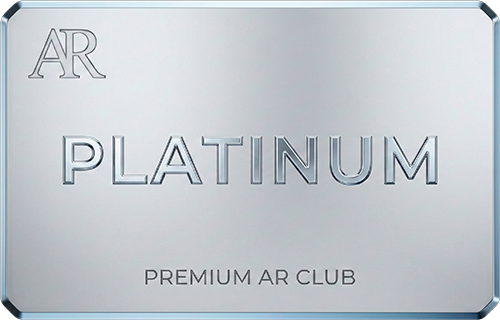
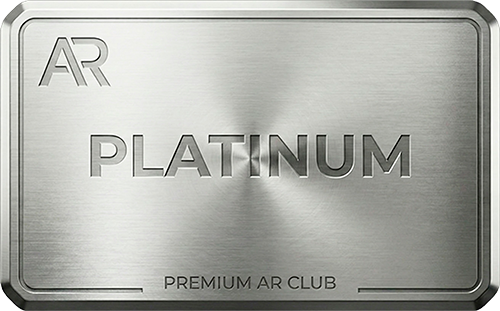
feat: отправка картинки карты при подтверждении оплаты
- Добавлена sendTelegramPhoto функция в оба webhook
- При оплате отправляется фото карты + текст + кнопки
- Fallback на текст если фото не отправится
- lava-premium-webhook.js и 0xprocessing-webhook.js обновлены

🤖 Generated with [Claude Code](https://claude.com/claude-code)

diff --git a/src/pages/PricingPage.tsx b/src/pages/PricingPage.tsx
@@ -49,21 +49,21 @@ const tariffs: Tariff[] = [
     discount: null, // No discount badge for manual old price handling
     badge: null,
     cardImage: '/cards/classic.png',
-    auroraColors: ['#6b7280', '#4b5563'], // Gray
+    auroraColors: ['#FFFFFF', '#E5E5E5'], // White
     auroraOpacity: 0.3,
     auroraBlur: 15,
     auroraSpeed: 10,
     isFeatured: false,
     baseFeatures: [
-      'Полный доступ к публикациям канала',
-      'Доступ к Premium таблице',
-      'Бот-навигатор по материалам',
-      'Общение в тематических чатах',
-      'Поддержка от команды AR'
+      'Закрытый канал с аналитикой',
+      'Таблица сигналов',
+      'Бот-навигатор',
+      'Общий чат клуба',
+      'Поддержка 24/7'
     ],
     bonuses: [],
     buttonStyle: 'outline',
-    buttonColor: '#9ca3af' // gray-400
+    buttonColor: '#FFFFFF' // white
   },
   {
     id: 'gold',
@@ -75,22 +75,21 @@ const tariffs: Tariff[] = [
     discount: null,
     badge: null,
     cardImage: '/cards/gold.png',
-    auroraColors: ['#FFD700', '#FFA500'], // Gold
-    auroraOpacity: 0.5,
-    auroraBlur: 20,
+    auroraColors: ['#F5A623', '#E69500'], // Rich gold
+    auroraOpacity: 0.6,
+    auroraBlur: 18,
     auroraSpeed: 8,
     isFeatured: false,
     baseFeatures: [],
-    bonuses: [ // "Everything in CLASSIC + ..." logic handled in render? No, previousTariff map handles it.
-      // Prompt says: "Deals with explanations...", "Directions SPOT...", "Podcasts", "Voting bot", "Highlights"
-      'Сделки с объяснениями и входом',
-      'Направления SPOT TRADE + Фьючерсы',
-      'Видео и аудио подкасты',
-      'Бот голосования за монеты',
-      'Подсветки сделок от команды'
+    bonuses: [
+      'Разборы сделок с точками входа',
+      'SPOT + Фьючерсы',
+      'Видео и аудио контент',
+      'Голосование за монеты',
+      'Live-оповещения о сделках'
     ],
     buttonStyle: 'outline',
-    buttonColor: '#FFD700' // gold
+    buttonColor: '#F5A623' // rich gold
   },
   {
     id: 'platinum',
@@ -102,22 +101,21 @@ const tariffs: Tariff[] = [
     discount: null,
     badge: 'ХИТ',
     cardImage: '/cards/platinum.png',
-    auroraColors: ['#E5E4E2', '#A8A8A8'], // Platinum silver
-    auroraOpacity: 0.7,
+    auroraColors: ['#8A8A8A', '#6B6B6B'], // Dark platinum metal
+    auroraOpacity: 0.8,
     auroraBlur: 12,
     auroraSpeed: 5,
     isFeatured: false,
     baseFeatures: [],
     bonuses: [
-      'Торговая стратегия X3 со сценариями',
-      'Авторские инвестиционные портфели',
-      'SPOT INVEST направление',
-      'Глубокая аналитика и ончейн метрики',
-      'Психология рынка, понимание циклов',
-      'AMA-сессии с Алексеем'
+      'Инвестиционные портфели',
+      'Долгосрочные стратегии',
+      'Ончейн-аналитика',
+      'Психология трейдинга',
+      'AMA с основателем'
     ],
     buttonStyle: 'outline',
-    buttonColor: '#E5E4E2' // Platinum
+    buttonColor: '#8A8A8A' // Dark platinum
   },
   {
     id: 'private',
@@ -129,22 +127,21 @@ const tariffs: Tariff[] = [
     discount: null,
     badge: 'VIP',
     cardImage: '/cards/PRIVATE.png',
-    auroraColors: ['#FFD700', '#FFA500'], // Gold/Amber
+    auroraColors: ['#9B2335', '#7B1E2D'], // Rich burgundy
     auroraOpacity: 0.8,
     auroraBlur: 22,
     auroraSpeed: 7,
     isFeatured: false,
     baseFeatures: [],
     bonuses: [
-      'Закрытая AMA с разбором',
+      'Личный разбор портфеля',
       'Приоритетная поддержка',
-      'Бонусы за активность в чате',
-      'Ранний доступ к новым продуктам',
-      'МИНИ АП В ТЕЛЕГРАМ',
-      'VIP ЗНАЧЕК В ПРИЛОЖЕНИИ'
+      'Ранний доступ к продуктам',
+      'Закрытый VIP-чат',
+      'VIP-статус в приложении'
     ],
     buttonStyle: 'outline',
-    buttonColor: '#FFD700'
+    buttonColor: '#9B2335' // burgundy
   }
 ]
 
@@ -303,46 +300,30 @@ function PricingCard({ tariff, index, onBuy }: PricingCardProps) {
 
         {/* Content */}
         <div className="relative z-[2] p-5 md:p-6 h-full flex flex-col">
-          {/* Badge - скидка + старая цена */}
-          {(tariff.discount || tariff.badge) && (
-            <div
-              className="absolute top-3 right-3 md:top-4 md:right-4 flex items-center gap-2 z-10"
-            >
-              {tariff.discount && (
-                <span
-                  className="px-2 py-0.5 md:px-2.5 md:py-1 rounded-md text-[10px] md:text-xs font-semibold"
-                  style={{
-                    background: `${tariff.auroraColors[0]}20`,
-                    color: tariff.auroraColors[0]
-                  }}
-                >
-                  {tariff.discount}
-                </span>
-              )}
-              {tariff.badge && (
-                <span
-                  className="px-2 py-0.5 md:px-2.5 md:py-1 rounded-md text-[10px] md:text-xs font-semibold border"
-                  style={{
-                    borderColor: `${tariff.auroraColors[0]}40`,
-                    color: tariff.auroraColors[0]
-                  }}
-                >
-                  {tariff.badge}
-                </span>
-              )}
+          {/* Верхняя строка: Название + Карта */}
+          <div className="flex items-start justify-between mb-4 md:mb-5">
+            <div>
+              {/* Название */}
+              <h3
+                className="text-lg md:text-xl font-bold tracking-wider"
+                style={{
+                  color: tariff.auroraColors[0],
+                  textShadow: `0 0 20px ${tariff.auroraColors[0]}80, 0 0 40px ${tariff.auroraColors[0]}40`
+                }}
+              >
+                {tariff.name}
+              </h3>
+              {/* Срок */}
+              <div className="text-gray-500 text-xs md:text-sm mt-1">{tariff.duration}</div>
             </div>
-          )}
 
-          {/* Название */}
-          <h3
-            className="text-lg md:text-xl font-semibold tracking-wider mb-1"
-            style={{ color: tariff.auroraColors[0] }}
-          >
-            {tariff.name}
-          </h3>
-
-          {/* Срок */}
-          <div className="text-gray-500 text-xs md:text-sm mb-4 md:mb-6">{tariff.duration}</div>
+            {/* Карточка */}
+            <img
+              src={tariff.cardImage}
+              alt={`${tariff.name} card`}
+              className="w-14 md:w-16 h-auto rounded-md opacity-90 flex-shrink-0"
+            />
+          </div>
 
           {/* Цена (с фиксированным отступом для старой цены) */}
           <div className="mb-4 md:mb-6">
@@ -523,6 +504,15 @@ export function PricingPage() {
             >
               <Timer deadline={deadline} />
             </motion.div>
+
+            <motion.p
+              initial={{ opacity: 0 }}
+              animate={{ opacity: 1 }}
+              transition={{ duration: 0.5, delay: 0.3 }}
+              className="text-white/60 text-sm md:text-base mt-4"
+            >
+              Оформите клубную карту по лучшим условиям
+            </motion.p>
           </header>
 
           {/* Карточки тарифов */}

diff --git a/api/lava-premium-webhook.js b/api/lava-premium-webhook.js
@@ -162,6 +162,45 @@ async function extractTelegramIdOrUsername(payload) {
 }
 
 // Отправить сообщение в Telegram
+// Маппинг тарифа на URL картинки
+const TARIFF_CARD_IMAGES = {
+  'classic': 'https://ararena.pro/cards/classic.png',
+  'gold': 'https://ararena.pro/cards/gold.png',
+  'platinum': 'https://ararena.pro/cards/platinum.png',
+  'private': 'https://ararena.pro/cards/PRIVATE.png'
+};
+
+async function sendTelegramPhoto(telegramId, photoUrl, caption, replyMarkup = null) {
+  try {
+    const body = {
+      chat_id: telegramId,
+      photo: photoUrl,
+      caption,
+      parse_mode: 'HTML'
+    };
+
+    if (replyMarkup) {
+      body.reply_markup = replyMarkup;
+    }
+
+    const response = await fetch(`https://api.telegram.org/bot${BOT_TOKEN}/sendPhoto`, {
+      method: 'POST',
+      headers: { 'Content-Type': 'application/json' },
+      body: JSON.stringify(body)
+    });
+
+    const result = await response.json();
+    if (!result.ok) {
+      log('❌ Telegram sendPhoto failed', result);
+    }
+    return result;
+  } catch (error) {
+    log('❌ Telegram sendPhoto error', { error: error.message });
+    return null;
+  }
+}
+
+// Отправить текстовое сообщение в Telegram (fallback)
 async function sendTelegramMessage(telegramId, text, replyMarkup = null) {
   try {
     const body = {
@@ -511,8 +550,20 @@ export default async function handler(req, res) {
 
       const replyMarkup = { inline_keyboard: buttons };
 
-      await sendTelegramMessage(String(finalTelegramId), welcomeText, replyMarkup);
-      log('✅ Welcome message with buttons sent');
+      // Получаем картинку карты для тарифа
+      const cardImageUrl = TARIFF_CARD_IMAGES[period.tariff] || TARIFF_CARD_IMAGES['classic'];
+
+      // Отправляем сообщение с картинкой карты
+      const photoResult = await sendTelegramPhoto(String(finalTelegramId), cardImageUrl, welcomeText, replyMarkup);
+
+      if (photoResult?.ok) {
+        log('✅ Welcome message with card image sent');
+      } else {
+        // Fallback на текстовое сообщение если фото не отправилось
+        log('⚠ Photo failed, sending text message');
+        await sendTelegramMessage(String(finalTelegramId), welcomeText, replyMarkup);
+        log('✅ Welcome text message sent');
+      }
     } else {
       log(`⚠ No telegram_id available. Username: ${extractedUsername}`);
     }

diff --git a/api/0xprocessing-webhook.js b/api/0xprocessing-webhook.js
@@ -50,6 +50,45 @@ function getPeriodByAmount(amountUSD) {
   return { days: 30, tariff: 'unknown', name: 'UNKNOWN' };
 }
 
+// Маппинг тарифа на URL картинки
+const TARIFF_CARD_IMAGES = {
+  'classic': 'https://ararena.pro/cards/classic.png',
+  'gold': 'https://ararena.pro/cards/gold.png',
+  'platinum': 'https://ararena.pro/cards/platinum.png',
+  'private': 'https://ararena.pro/cards/PRIVATE.png'
+};
+
+// Отправить фото с подписью в Telegram
+async function sendTelegramPhoto(telegramId, photoUrl, caption, replyMarkup = null) {
+  try {
+    const body = {
+      chat_id: telegramId,
+      photo: photoUrl,
+      caption,
+      parse_mode: 'HTML'
+    };
+
+    if (replyMarkup) {
+      body.reply_markup = replyMarkup;
+    }
+
+    const response = await fetch(`https://api.telegram.org/bot${BOT_TOKEN}/sendPhoto`, {
+      method: 'POST',
+      headers: { 'Content-Type': 'application/json' },
+      body: JSON.stringify(body)
+    });
+
+    const result = await response.json();
+    if (!result.ok) {
+      log('❌ Telegram sendPhoto failed', result);
+    }
+    return result;
+  } catch (error) {
+    log('❌ Telegram sendPhoto error', { error: error.message });
+    return null;
+  }
+}
+
 // Отправить сообщение в Telegram
 async function sendTelegramMessage(telegramId, text, replyMarkup = null) {
   try {
@@ -346,8 +385,20 @@ export default async function handler(req, res) {
 
       const replyMarkup = { inline_keyboard: buttons };
 
-      await sendTelegramMessage(finalTelegramId, welcomeText, replyMarkup);
-      log('✅ Welcome message with buttons sent');
+      // Получаем картинку карты для тарифа
+      const cardImageUrl = TARIFF_CARD_IMAGES[period.tariff] || TARIFF_CARD_IMAGES['classic'];
+
+      // Отправляем сообщение с картинкой карты
+      const photoResult = await sendTelegramPhoto(finalTelegramId, cardImageUrl, welcomeText, replyMarkup);
+
+      if (photoResult?.ok) {
+        log('✅ Welcome message with card image sent');
+      } else {
+        // Fallback на текстовое сообщение если фото не отправилось
+        log('⚠ Photo failed, sending text message');
+        await sendTelegramMessage(finalTelegramId, welcomeText, replyMarkup);
+        log('✅ Welcome text message sent');
+      }
     }
 
     // ============================================

diff --git a/src/components/premium/PaymentModal.tsx b/src/components/premium/PaymentModal.tsx
@@ -119,13 +119,8 @@ export const PaymentModal: React.FC<PaymentModalProps> = ({
             console.log('[PaymentModal] API response:', data)
 
             if (data.ok && data.paymentUrl) {
-                // @ts-ignore
-                if (window.Telegram?.WebApp?.openLink) {
-                    // @ts-ignore
-                    window.Telegram.WebApp.openLink(data.paymentUrl)
-                } else {
-                    window.open(data.paymentUrl, '_blank')
-                }
+                // Редирект на страницу оплаты (без popup)
+                window.location.href = data.paymentUrl
             } else {
                 alert('Ошибка создания платежа: ' + (data.error || 'Неизвестная ошибка'))
             }
